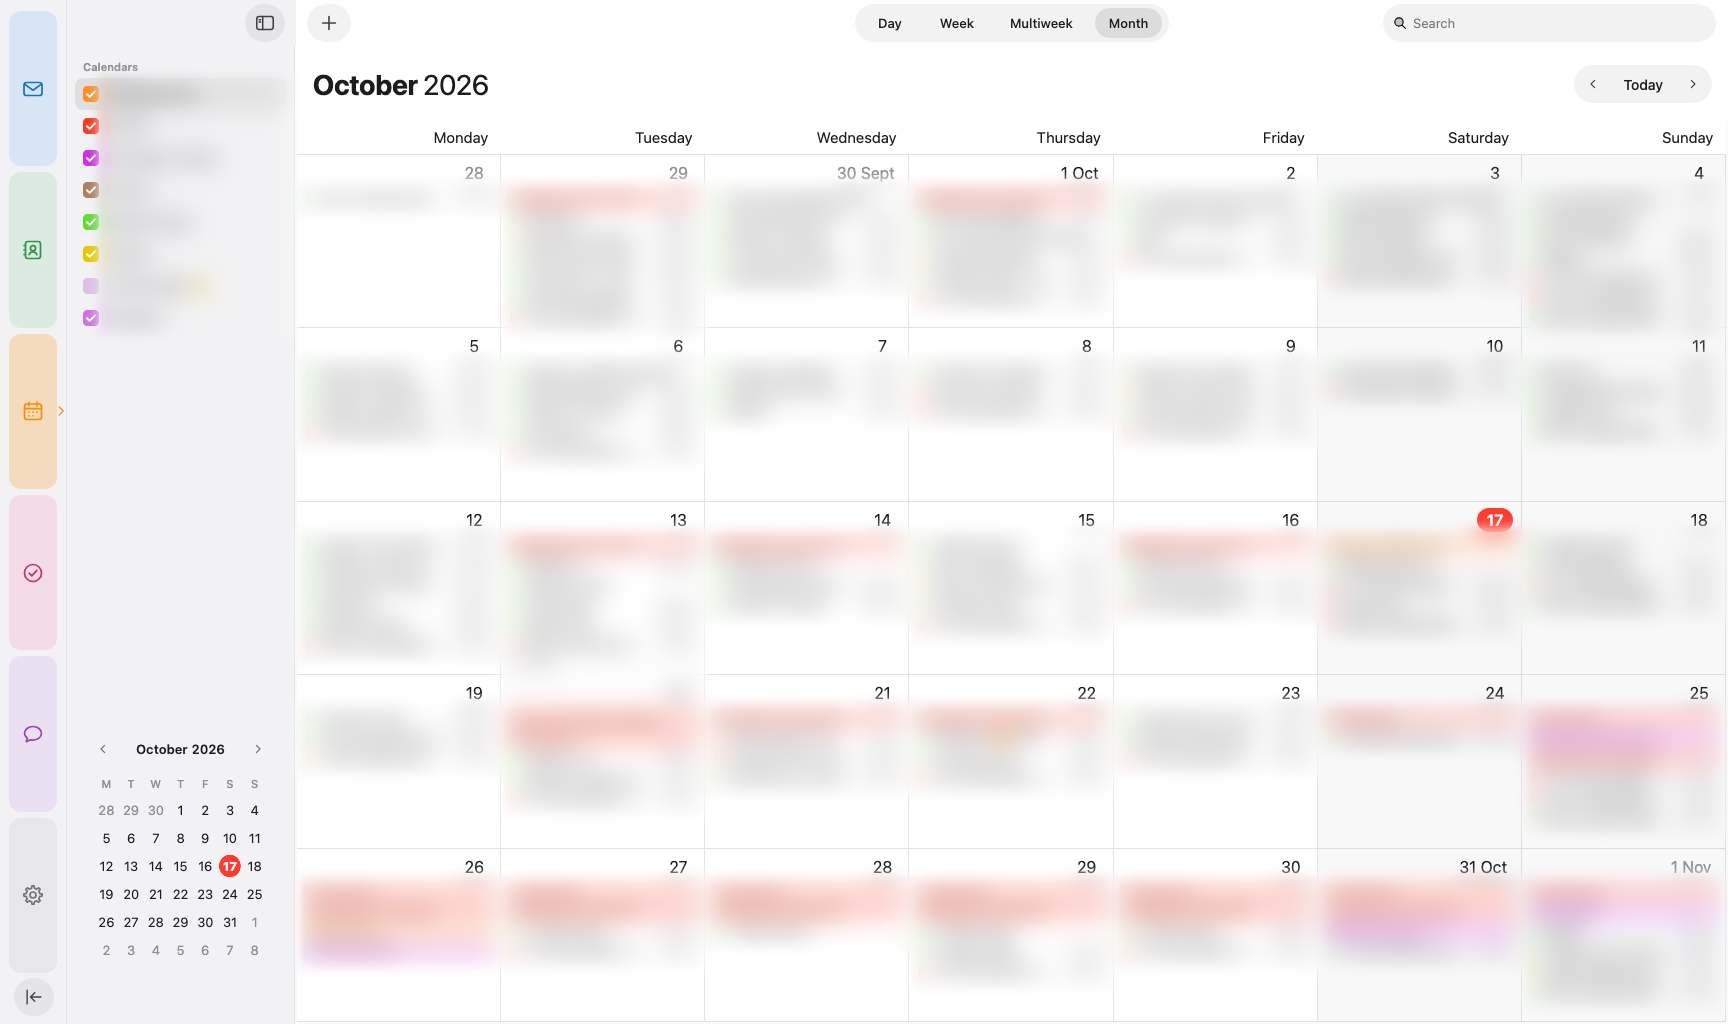
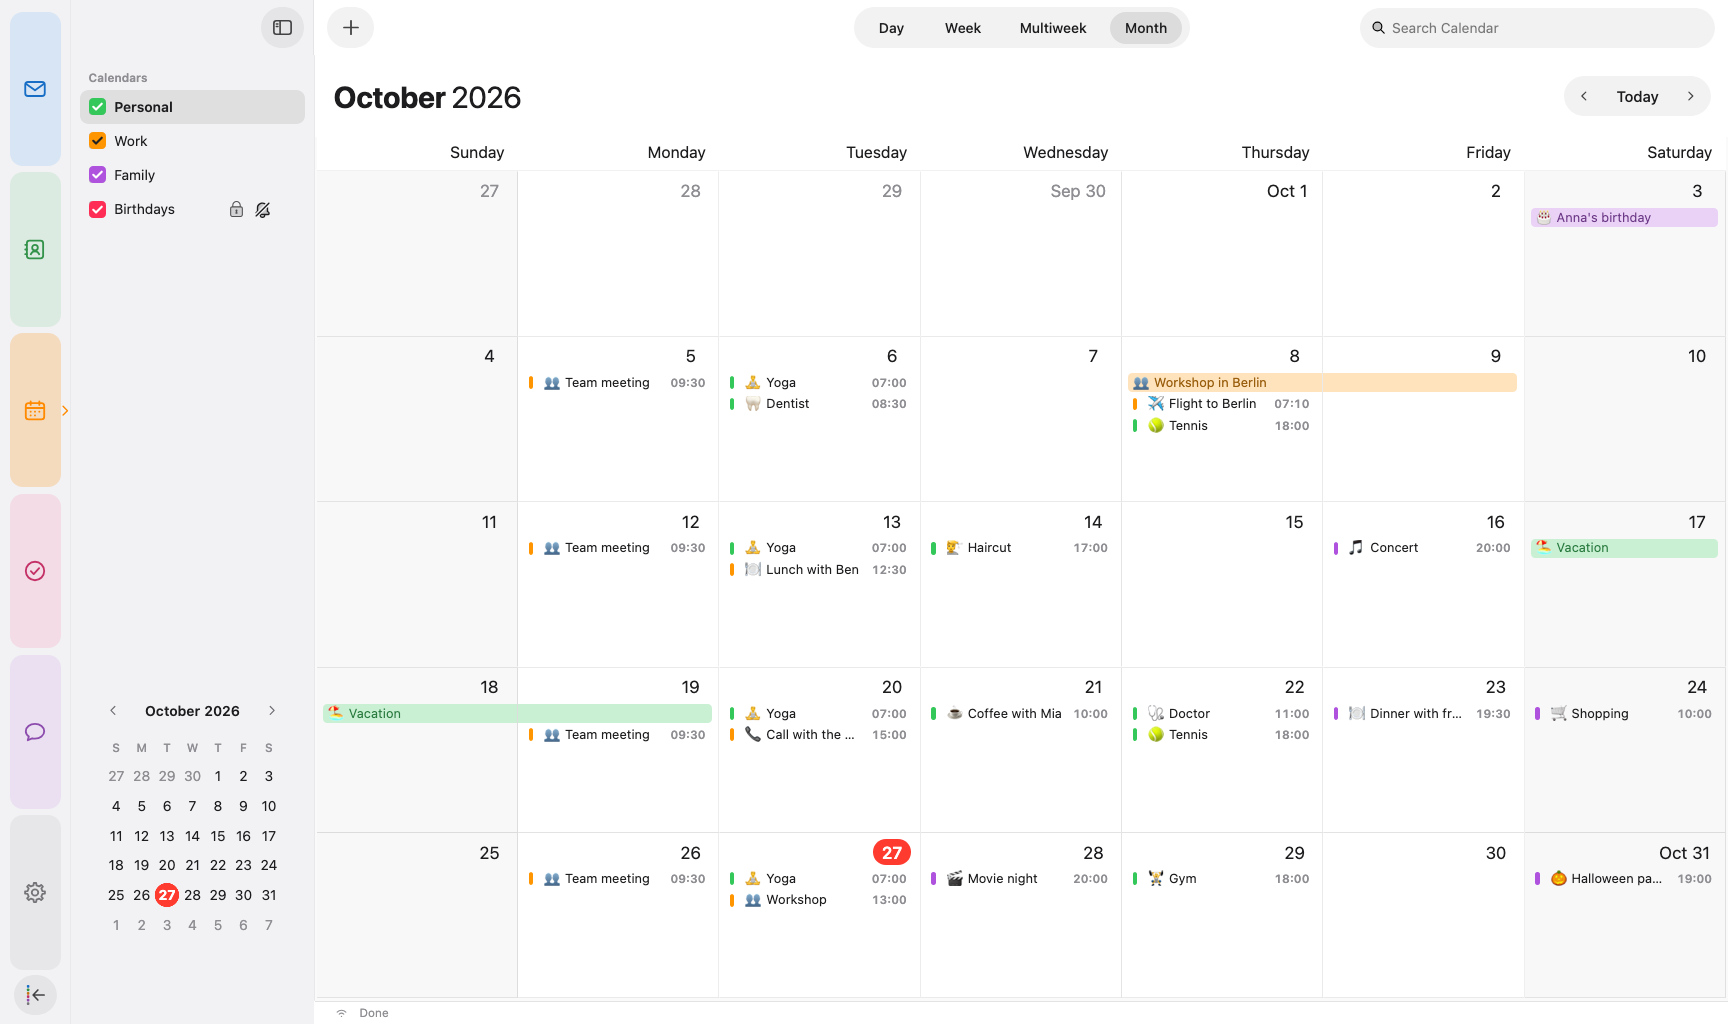
README: Kalenderbild aus dem Testprofil mit Emojis vor den Termintiteln statt unkenntlich gemachter echter Termine

diff --git a/README.md b/README.md
@@ -31,7 +31,7 @@ Features
 - Automatic updates via GitHub
 
 <p align="center">
-  <img src="screenshots/calendar.png" alt="Calendar month view" width="49%">
+  <img src="screenshots/calendar.png" alt="Calendar month view with emojis before event titles" width="49%">
   <img src="screenshots/addressbook.png" alt="Address book" width="49%">
 </p>
 
@@ -39,7 +39,7 @@ Features
   <img src="screenshots/quick-event.png" alt="Quick event window" width="320">
 </p>
 
-Personal data in the screenshots is blurred.
+The calendar shows made-up test data; personal data in the other screenshots is blurred.
 
 3.7.0 Release Notes
 --------
